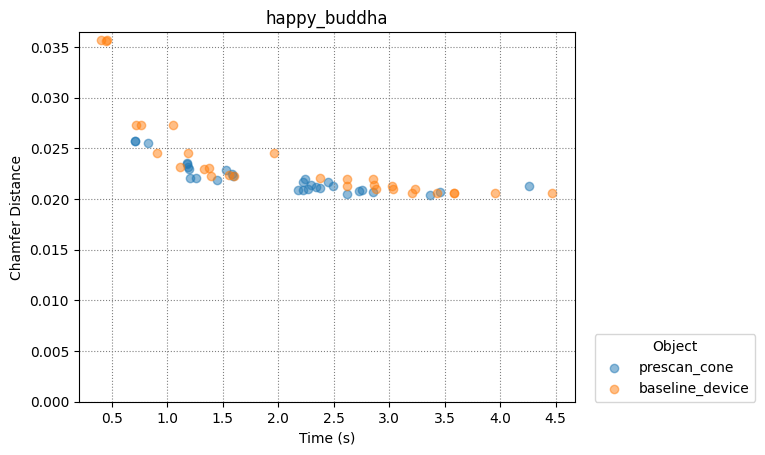
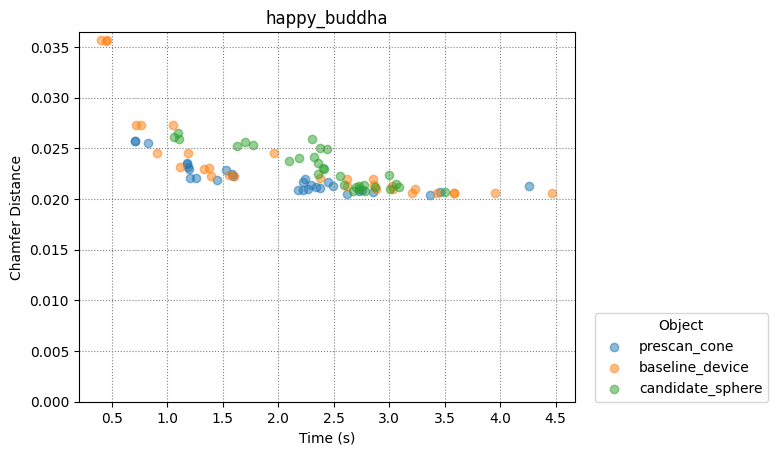
Hausdorff-time script

diff --git a/analysis/time_hausdorff.py b/analysis/time_hausdorff.py
@@ -1,0 +1,120 @@
+import os
+import csv
+import glob
+import argparse
+
+from ray_field import CheckpointName
+from ray_field.baseline_device import BaselineDevice
+from ray_field.algorithm import Algorithm
+from analysis import ALGORITHM_LIST, N_VALUES, OBJECT_NAMES, class_dict
+
+import matplotlib
+import matplotlib.pyplot as plt
+matplotlib.use('Agg')
+
+DIR_PATH = 'analysis/data/time_hausdorff/'
+
+def compute_values(algorithm: type[Algorithm], model_name: CheckpointName) -> tuple[list[float], list[float], list[int]]:
+    # Warm up
+    BaselineDevice.surface_reconstruction(model_name, 100)
+
+    return algorithm.time_hausdorff(model_name, N_VALUES)
+
+def save_results(times: list[float], distances: list[float], R_values: list[int], algorithm: str, model_name: str) -> None:
+    with open(f'{DIR_PATH}{algorithm}_{model_name}.csv', mode='a', newline='') as file:
+        writer = csv.writer(file)
+
+        for r, t, d in zip(R_values, times, distances):
+            writer.writerow([r, t, d])
+
+def create_results(times: list[float], distances: list[float], R_values: list[int], algorithm: str, model_name: str) -> None:
+    if not os.path.exists(DIR_PATH):
+        os.makedirs(DIR_PATH)
+    
+    with open(f'{DIR_PATH}{algorithm}_{model_name}.csv', mode='w', newline='') as file:
+        writer = csv.writer(file)
+
+        for r, t, d in zip(R_values, times, distances):
+            writer.writerow([r, t, d])
+
+def load_results(model_name: str) -> tuple[list[str], list[list[float]], list[list[float]], list[list[int]]]:
+    algorithms = []
+    all_times = []
+    all_distances = []
+    all_R_values = []
+
+    pattern = f"{DIR_PATH}*_{model_name}.csv"
+    file_paths = glob.glob(pattern)
+
+    for file_path in file_paths:
+        filename = os.path.basename(file_path)
+        algorithm = filename[: -len((f'_{model_name}.csv'))]
+        algorithms.append(algorithm)
+
+        times = []
+        distances = []
+        R_values = []
+
+        with open(file_path, mode='r') as file:
+            reader = csv.reader(file)
+
+            for row in reader:
+                R_values.append(int(row[0]))
+                times.append(float(row[1]))
+                distances.append(float(row[2]))
+
+        all_times.append(times)
+        all_distances.append(distances)
+        all_R_values.append(R_values)
+
+    return algorithms, all_times, all_distances, all_R_values
+
+def plot_results(algorithms: list[str], times: list[list[float]], distances: list[list[float]], R_values: list[list[int]], model_name: str) -> None:
+    fig, ax = plt.subplots()
+
+    for i, entry in enumerate(times):
+        ax.scatter(entry, distances[i], label=f'{algorithms[i]}', alpha=0.5)
+    
+    ax.set_ylabel('Hausdorff Distance')
+    ax.set_xlabel('Time (s)')
+    ax.set_ylim(0)
+    ax.set_title(model_name)
+    ax.legend(loc=(1.04, 0), title='Object')
+    plt.grid(linestyle='dotted', color='grey')
+    fig.savefig(f'{DIR_PATH}{model_name}.png', bbox_inches="tight")
+
+parser = argparse.ArgumentParser()
+parser.add_argument("-s", "--Save", action='store_true')
+parser.add_argument("-l", "--Load", action='store_true')
+parser.add_argument("-c", "--Create", action='store_true')
+parser.add_argument("-a", "--Algorithm", type=str)
+parser.add_argument("-f", "--Filename", type=str)
+
+args = parser.parse_args()
+
+
+if not args.Filename:
+    print('A filename must be specified')
+    exit()
+elif args.Filename not in OBJECT_NAMES:
+    print(f'"{args.Filename}" is not a valid key, valid keys are: {", ".join(OBJECT_NAMES)}')
+    exit()
+
+if args.Load:
+    algorithms, times, distances, R_values = load_results(args.Filename)
+    plot_results(algorithms, times, distances, R_values, args.Filename)
+    exit()
+
+if not args.Algorithm:
+    print('An algorithm must be specified')
+    exit()
+if args.Algorithm not in ALGORITHM_LIST:
+    print(f'"{args.Algorithm}" is not a valid key, valid keys are: {", ".join(ALGORITHM_LIST)}')
+    exit()
+
+if args.Save:
+    times, distances, R_values = compute_values(class_dict[args.Algorithm], args.Filename)
+    save_results(times, distances, R_values, args.Algorithm, args.Filename)
+elif args.Create:
+    times, distances, R_values = compute_values(class_dict[args.Algorithm], args.Filename)
+    create_results(times, distances, R_values, args.Algorithm, args.Filename)

diff --git a/ray_field/candidate_sphere.py b/ray_field/candidate_sphere.py
@@ -256,7 +256,7 @@ class CandidateSphere(Algorithm):
                 R_values[i] = dirs.shape[0] * dirs.shape[2]
 
                 radii, centers = CandidateSphere._generate_candidate_spheres(sphere_centers, device)
-                origins, dirs = CandidateSphere._generate_candidate_rays(radii, centers, N, device)
+                origins, dirs = CandidateSphere._generate_candidate_rays(radii, centers, N, device, '16')
                 intersections, intersection_normals = CandidateSphere._targeted_scan(model, origins, dirs)
                 intersections, intersection_normals = CandidateSphere._cat_and_move(intersections, intersection_normals, broad_intersections, broad_normals)
 
@@ -266,6 +266,51 @@ class CandidateSphere(Algorithm):
                 time = timer() - start_time
 
                 distance = utils.chamfer_distance_to_stanford(model_name, mesh, CandidateSphere.dist_samples)
+                R_values[i] = R_values[i] + (dirs.shape[0] * dirs.shape[2])
+
+                times[i] = time
+                distances[i] = distance
+                
+                print(f'N: {N}\tTime: {time:.5f}\tDistance: {distance:.5f}')
+
+                del origins, dirs, broad_intersections, broad_normals, sphere_centers, radii, centers, intersections, intersection_normals, mesh
+                torch.cuda.empty_cache()
+                        
+        del model
+        torch.cuda.empty_cache()
+
+        return times, distances, R_values
+    
+    def time_hausdorff(model_name: CheckpointName, N_values: list[int]) -> tuple[list[float], list[float], list[int]]:
+        model, device = utils.init_model(model_name)
+
+        times = np.zeros(len(N_values))
+        distances = np.zeros(len(N_values))
+        R_values = np.zeros(len(N_values), dtype=int)
+
+        with torch.no_grad():
+            for i in range(len(N_values)):
+                N = N_values[i]
+
+                torch.cuda.synchronize()
+                start_time = timer()
+
+                origins, dirs = utils.generate_sphere_rays_tensor(CandidateSphere.prescan_n, device)
+                broad_intersections, broad_normals, sphere_centers = CandidateSphere._broad_scan(model, origins, dirs)
+
+                R_values[i] = dirs.shape[0] * dirs.shape[2]
+
+                radii, centers = CandidateSphere._generate_candidate_spheres(sphere_centers, device)
+                origins, dirs = CandidateSphere._generate_candidate_rays(radii, centers, N, device, '16')
+                intersections, intersection_normals = CandidateSphere._targeted_scan(model, origins, dirs)
+                intersections, intersection_normals = CandidateSphere._cat_and_move(intersections, intersection_normals, broad_intersections, broad_normals)
+
+                mesh = utils.poisson_surface_reconstruction(intersections, intersection_normals, CandidateSphere.poisson_depth)
+
+                torch.cuda.synchronize()
+                time = timer() - start_time
+
+                distance = utils.hausdorff_distance_to_stanford(model_name, mesh, CandidateSphere.dist_samples)
                 R_values[i] = R_values[i] + (dirs.shape[0] * dirs.shape[2])
 
                 times[i] = time

diff --git a/ray_field/prescan_cone.py b/ray_field/prescan_cone.py
@@ -280,6 +280,50 @@ class PrescanCone(Algorithm):
 
         return times, distances, R_values
     
+    def time_hausdorff(model_name: CheckpointName, N_values: list[int]) -> tuple[list[float], list[float], list[int]]:
+        model, device = utils.init_model(model_name)
+
+        times = np.zeros(len(N_values))
+        distances = np.zeros(len(N_values))
+        R_values = np.zeros(len(N_values), dtype=int)
+
+        with torch.no_grad():
+            for i in range(len(N_values)):
+                N = N_values[i]
+
+                torch.cuda.synchronize()
+                start_time = timer()
+
+                origins, dirs = utils.generate_sphere_rays_tensor(PrescanCone.prescan_n, device)
+                broad_intersections, broad_normals = PrescanCone._broad_scan(model, origins, dirs)
+
+                R_values[i] = dirs.shape[0] * dirs.shape[2]
+
+                origins, dirs = PrescanCone._generate_cone_rays(broad_intersections, N, device, '256')
+                intersections, intersection_normals = PrescanCone._targeted_scan(model, origins, dirs)
+                intersections, intersection_normals = PrescanCone._cat_and_move(intersections, intersection_normals, broad_intersections, broad_normals)
+
+                mesh = utils.poisson_surface_reconstruction(intersections, intersection_normals, PrescanCone.poisson_depth)
+
+                torch.cuda.synchronize()
+                time = timer() - start_time
+
+                distance = utils.hausdorff_distance_to_stanford(model_name, mesh, PrescanCone.dist_samples)
+                R_values[i] = R_values[i] + (dirs.shape[0] * dirs.shape[2])
+
+                times[i] = time
+                distances[i] = distance
+                
+                print(f'N: {N}\tTime: {time:.5f}\tDistance: {distance:.5f}')
+
+                del origins, dirs, broad_intersections, broad_normals, intersections, intersection_normals, mesh
+                torch.cuda.empty_cache()
+                
+        del model
+        torch.cuda.empty_cache()
+
+        return times, distances, R_values
+    
     def optimize(model_name: CheckpointName, N_values: list[int], M_values: list[int]) -> list[list[float]]:   
         model, device = utils.init_model(model_name)
 

diff --git a/ray_field/baseline_device.py b/ray_field/baseline_device.py
@@ -236,6 +236,43 @@ class BaselineDevice(Algorithm):
 
         return times, distances, R_values
     
+    def time_hausdorff(model_name: CheckpointName, N_values: list[int]) -> tuple[list[float], list[float], list[int]]:
+        model, device = utils.init_model(model_name)
+
+        times = np.zeros(len(N_values))
+        distances = np.zeros(len(N_values))
+        R_values = np.zeros(len(N_values), dtype=int)
+
+        with torch.no_grad():
+            for i in range(len(N_values)):
+                N = N_values[i]
+
+                torch.cuda.synchronize()
+                start_time = timer()
+
+                origins, dirs = utils.generate_sphere_rays_tensor(N, device)
+                intersections, intersection_normals = BaselineDevice._baseline_scan(model, origins, dirs)
+                mesh = utils.poisson_surface_reconstruction(intersections, intersection_normals, BaselineDevice.poisson_depth)
+
+                torch.cuda.synchronize()
+                time = timer() - start_time
+
+                distance = utils.hausdorff_distance_to_stanford(model_name, mesh, BaselineDevice.dist_samples)
+                R_values[i] = dirs.shape[0] * dirs.shape[2]
+
+                times[i] = time
+                distances[i] = distance
+                
+                print(f'N: {N}\tTime: {time:.5f}\tDistance: {distance:.5f}')
+
+                del origins, dirs, intersections, intersection_normals, mesh
+                torch.cuda.empty_cache()
+                        
+        del model
+        torch.cuda.empty_cache()
+
+        return times, distances, R_values
+    
     def chamfer_marf(model_name: CheckpointName, N_values: list[int]) -> tuple[list[float], list[int]]:
         model, device = utils.init_model(model_name)
 
